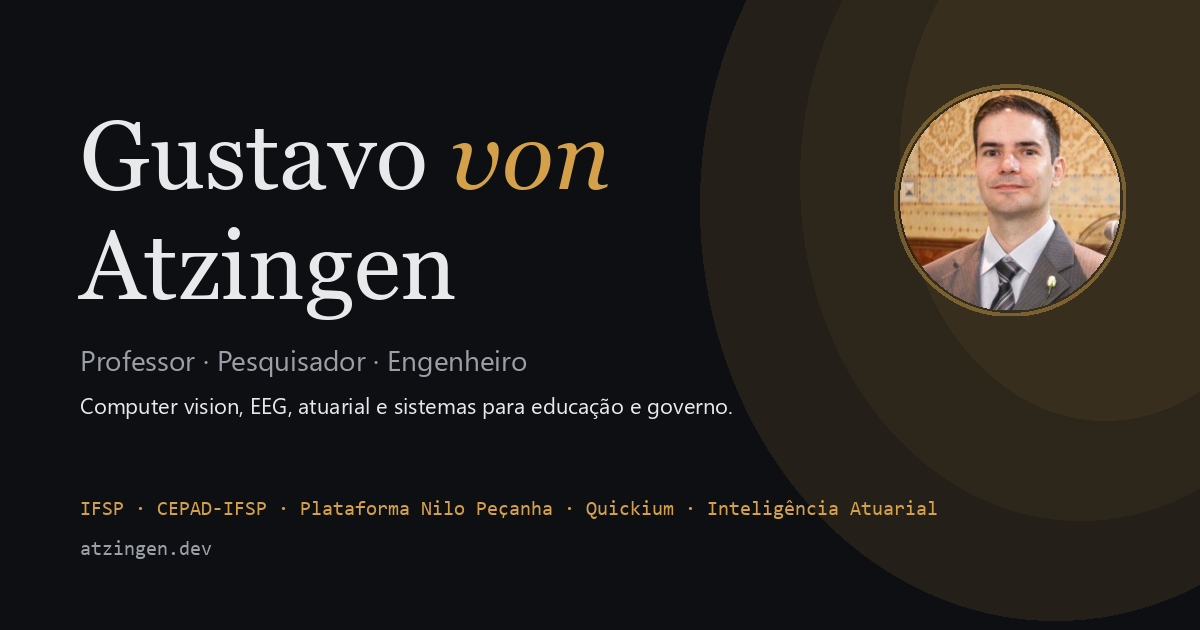
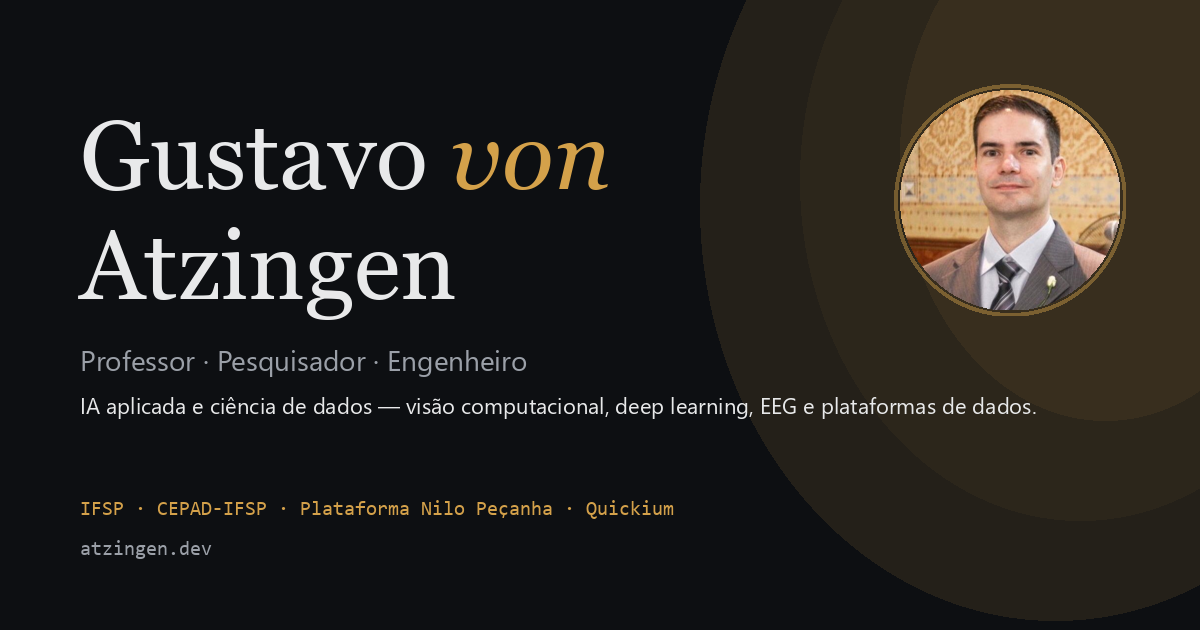
content: rewrite one-liner to lead with AI + data science
The old "Computer vision, EEG, atuarial e sistemas para educação e governo"
buried the lead. New positioning puts AI / data science up front and lists
what's actually built today:

  "Inteligência artificial aplicada e ciência de dados — visão
   computacional embarcada, deep learning sobre sinais biomédicos (EEG)
   e plataformas de dados para educação, governo e indústria."

Changes:
- profile.json oneLiner PT/EN rewritten.
- Scope mockup hero copy updated to the new one-liner + philosophy line.
  Scope role chips now lean DS/AI: data_science, deep_learning,
  computer_vision, EEG_sinais, ai_dev_tools, gov_data.
- Bio §2 in scope mockup aligned ("deep learning sobre sinais biomédicos
  / ciência de dados aplicada" instead of generic "machine learning").
- _make_og.py rewritten subtitle, roles list now drops Inteligência
  Atuarial. og-image.png regenerated.

Changed region(s): [[0.0617, 0.6333, 0.8633, 0.6635], [0.5858, 0.7841, 0.7708, 0.8143]]

diff --git a/public/mockups/01-scope/index.html b/public/mockups/01-scope/index.html
@@ -251,9 +251,9 @@ section.bay::before{
           <b>PROFESSOR</b>·<b>PESQUISADOR</b>·<b>ENGENHEIRO</b>
           <span>IFSP · CEPAD · PNP · QUICKIUM</span>
         </p>
-        <p class="hero-oneliner">Computer vision, EEG, atuarial e sistemas para educação e governo. Software que precisa rodar, ser mantido e gerar valor mensurável.</p>
+        <p class="hero-oneliner">Inteligência artificial aplicada e ciência de dados — visão computacional embarcada, deep learning sobre sinais biomédicos (EEG) e plataformas de dados para educação, governo e indústria. Software que precisa rodar em produção, ser mantido e gerar valor mensurável.</p>
         <ul class="role-chips">
-          <li>visao_computacional</li><li>EEG</li><li>machine_learning</li><li>gov_data</li><li>embarcados</li><li>ai_dev_tools</li>
+          <li>data_science</li><li>deep_learning</li><li>computer_vision</li><li>EEG_sinais</li><li>ai_dev_tools</li><li>gov_data</li>
         </ul>
       </div>
     </div>
@@ -285,7 +285,7 @@ section.bay::before{
     <div class="about-grid">
       <div class="about-prose">
         <p>Físico de formação, engenheiro de alimentos por treino, e hoje muito mais. <strong>Bacharel em Física pela USP/IFSC (2007)</strong>, com Mestrado e Doutorado em Engenharia de Alimentos pela FZEA-USP (2013/2017), trabalhando com instrumentação eletrônica e simulação numérica de processos térmicos. Professor no IFSP Piracicaba desde então.</p>
-        <p>Como pesquisador, trabalho com <strong>visão computacional, EEG, machine learning aplicado e instrumentação embarcada</strong>. No CEPAD-IFSP coordeno plataformas digitais para iniciativas governamentais — Plataforma Nilo Peçanha, dashboards de cestas básicas (MDS), agroecologia (MMA) — e fui coordenador do IFMAISEMPREENDEDOR Piracicaba.</p>
+        <p>Como pesquisador, trabalho com <strong>visão computacional embarcada, deep learning sobre sinais biomédicos (EEG) e ciência de dados aplicada</strong>. No CEPAD-IFSP coordeno plataformas digitais para iniciativas governamentais — Plataforma Nilo Peçanha, dashboards de cestas básicas (MDS), agroecologia (MMA) — e fui coordenador do IFMAISEMPREENDEDOR Piracicaba.</p>
         <p>Em paralelo, sou <strong>co-fundador da Quickium</strong> — empresa de tecnologia voltada a soluções customizadas em visão computacional embarcada, IA aplicada e plataformas de dados. Filosofia: software que precisa rodar no mundo real, ser mantido e gerar valor mensurável.</p>
       </div>
       <aside class="about-side">

diff --git a/public/assets/_make_og.py b/public/assets/_make_og.py
@@ -91,12 +91,12 @@ def main() -> None:
     draw.text((x, 340), "Professor · Pesquisador · Engenheiro", fill=DIM, font=sans)
     draw.text(
         (x, 390),
-        "Computer vision, EEG, atuarial e sistemas para educação e governo.",
+        "IA aplicada e ciência de dados — visão computacional, deep learning, EEG e plataformas de dados.",
         fill=FG,
         font=sans_small,
     )
 
-    roles = "IFSP · CEPAD-IFSP · Plataforma Nilo Peçanha · Quickium · Inteligência Atuarial"
+    roles = "IFSP · CEPAD-IFSP · Plataforma Nilo Peçanha · Quickium"
     draw.text((x, 500), roles, fill=ACC, font=mono)
     draw.text((x, 540), "atzingen.dev", fill=DIM, font=mono)
 
